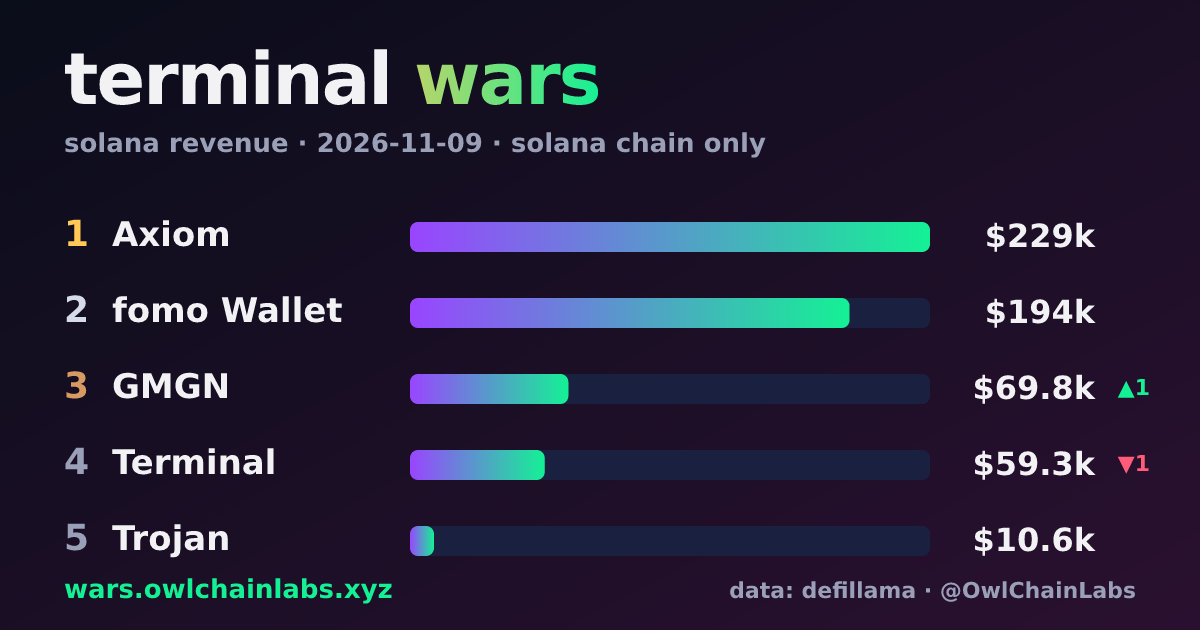
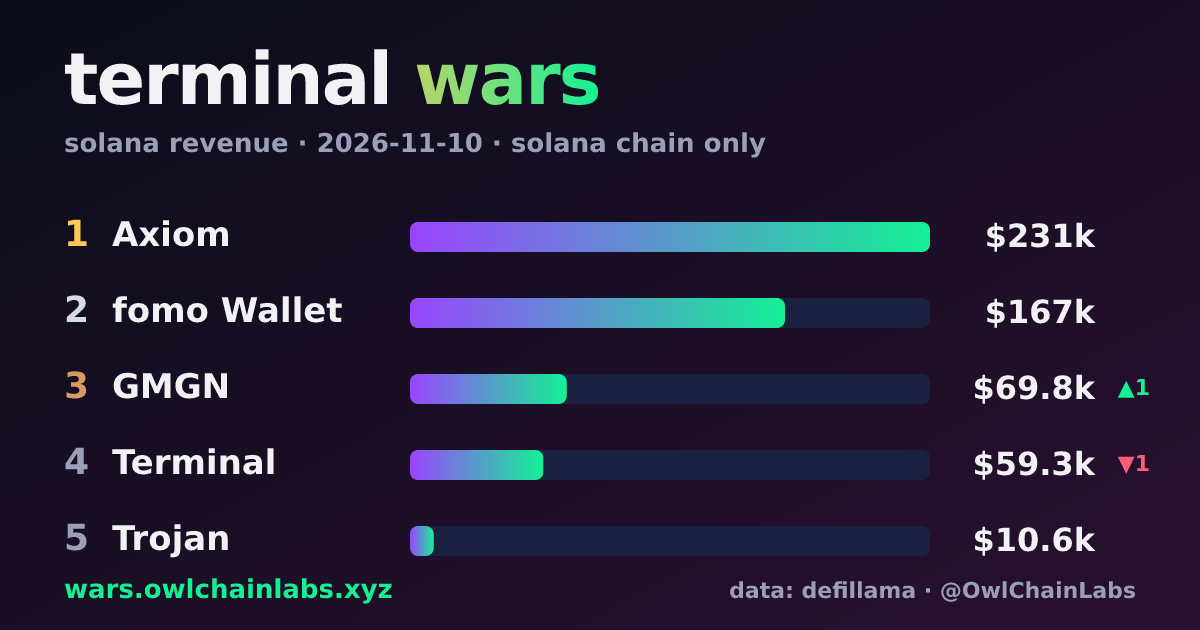
data: 2026-11-11

diff --git a/public/index.html b/public/index.html
@@ -9,8 +9,8 @@
   <meta property="og:title" content="terminal wars">
   <meta property="og:description" content="which solana trading terminal makes the most from you? daily leaderboard.">
   <meta property="og:url" content="https://wars.owlchainlabs.xyz">
-  <meta property="og:image" content="https://wars.owlchainlabs.xyz/og.png?v=2026-11-09">
-  <meta name="twitter:image" content="https://wars.owlchainlabs.xyz/og.png?v=2026-11-09">
+  <meta property="og:image" content="https://wars.owlchainlabs.xyz/og.png?v=2026-11-10">
+  <meta name="twitter:image" content="https://wars.owlchainlabs.xyz/og.png?v=2026-11-10">
   <meta name="twitter:card" content="summary_large_image">
   <meta name="twitter:site" content="@OwlChainLabs">
   <style>
